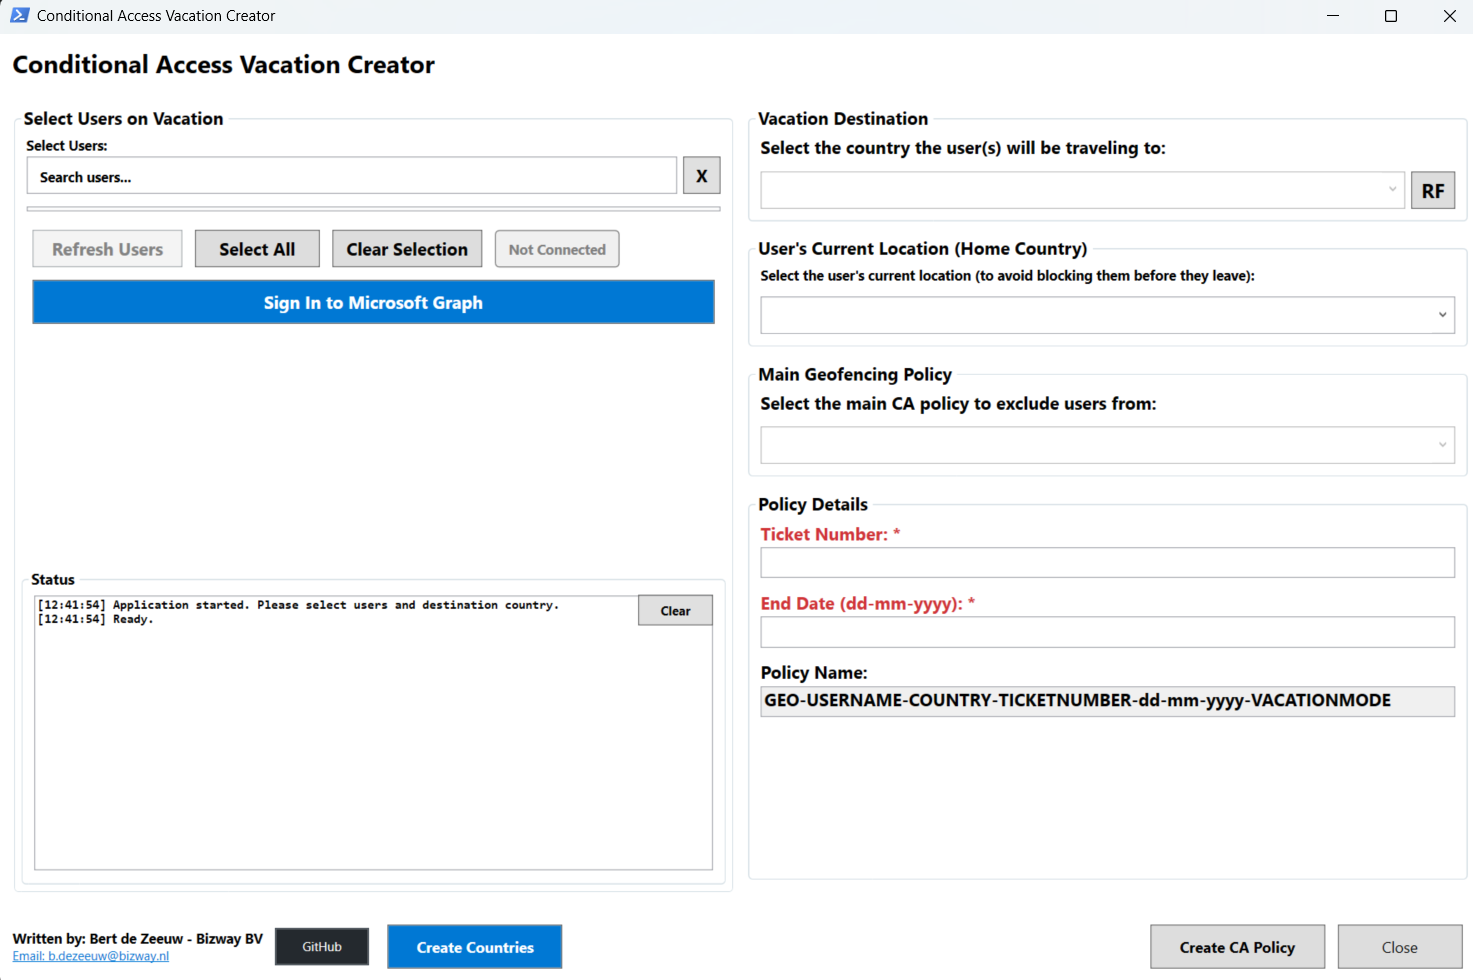
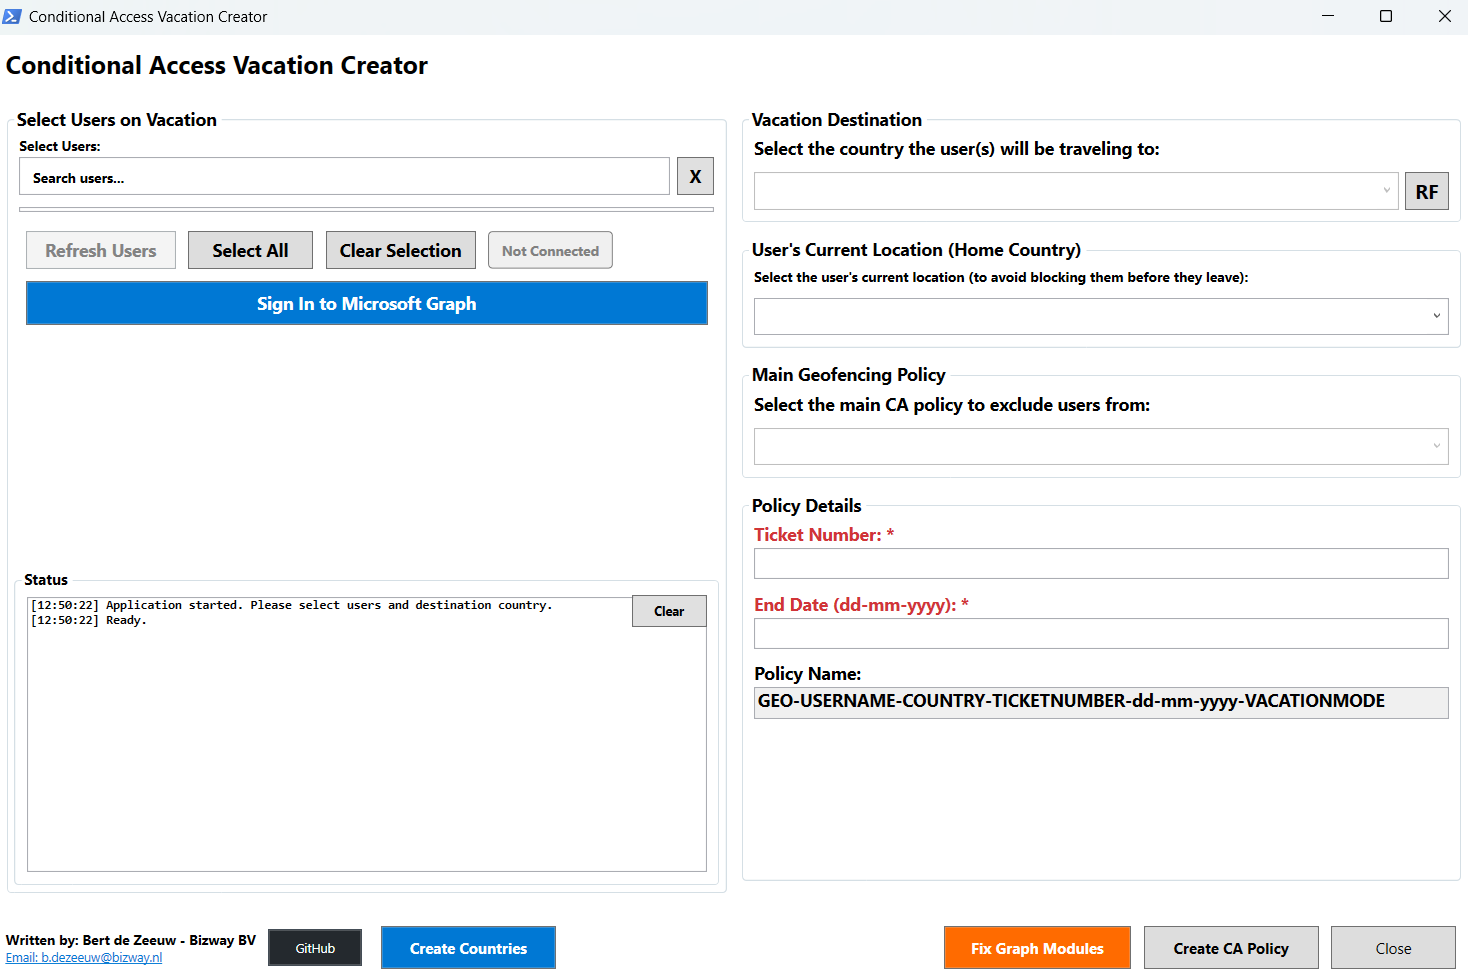
Updated the screenshot and made some adjustments on the readme.

diff --git a/README.md b/README.md
@@ -33,6 +33,9 @@ Set-ExecutionPolicy -ExecutionPolicy RemoteSigned -Scope CurrentUser
 6. **Create Policy**: Click "Create CA Policy"
 7. **Enable**: Go to Entra ID portal and enable the policy after review
 
+   **Fix graph modules** : I recently came across and issue when my computer has been updates or got some new patches my graph modules were corrupted. The button Fix Graph Modules will solve this issue.
+   The button wil re-install the Graph Modules needed for this application to run.
+
 ### Technical Flow
 
 1. **Authentication**: Connects to Microsoft Graph using OAuth 2.0
@@ -96,3 +99,6 @@ Use format `dd-mm-yyyy` (e.g., `31-12-2026`) with dashes, not slashes.
 
 **Module installation fails**  
 Run as Administrator and manually install: `Install-Module Microsoft.Graph -Scope CurrentUser`
+
+**Authentication failed**
+Please use the button "Fix Graph Modules" this will solve most of the Authentication related issues.
